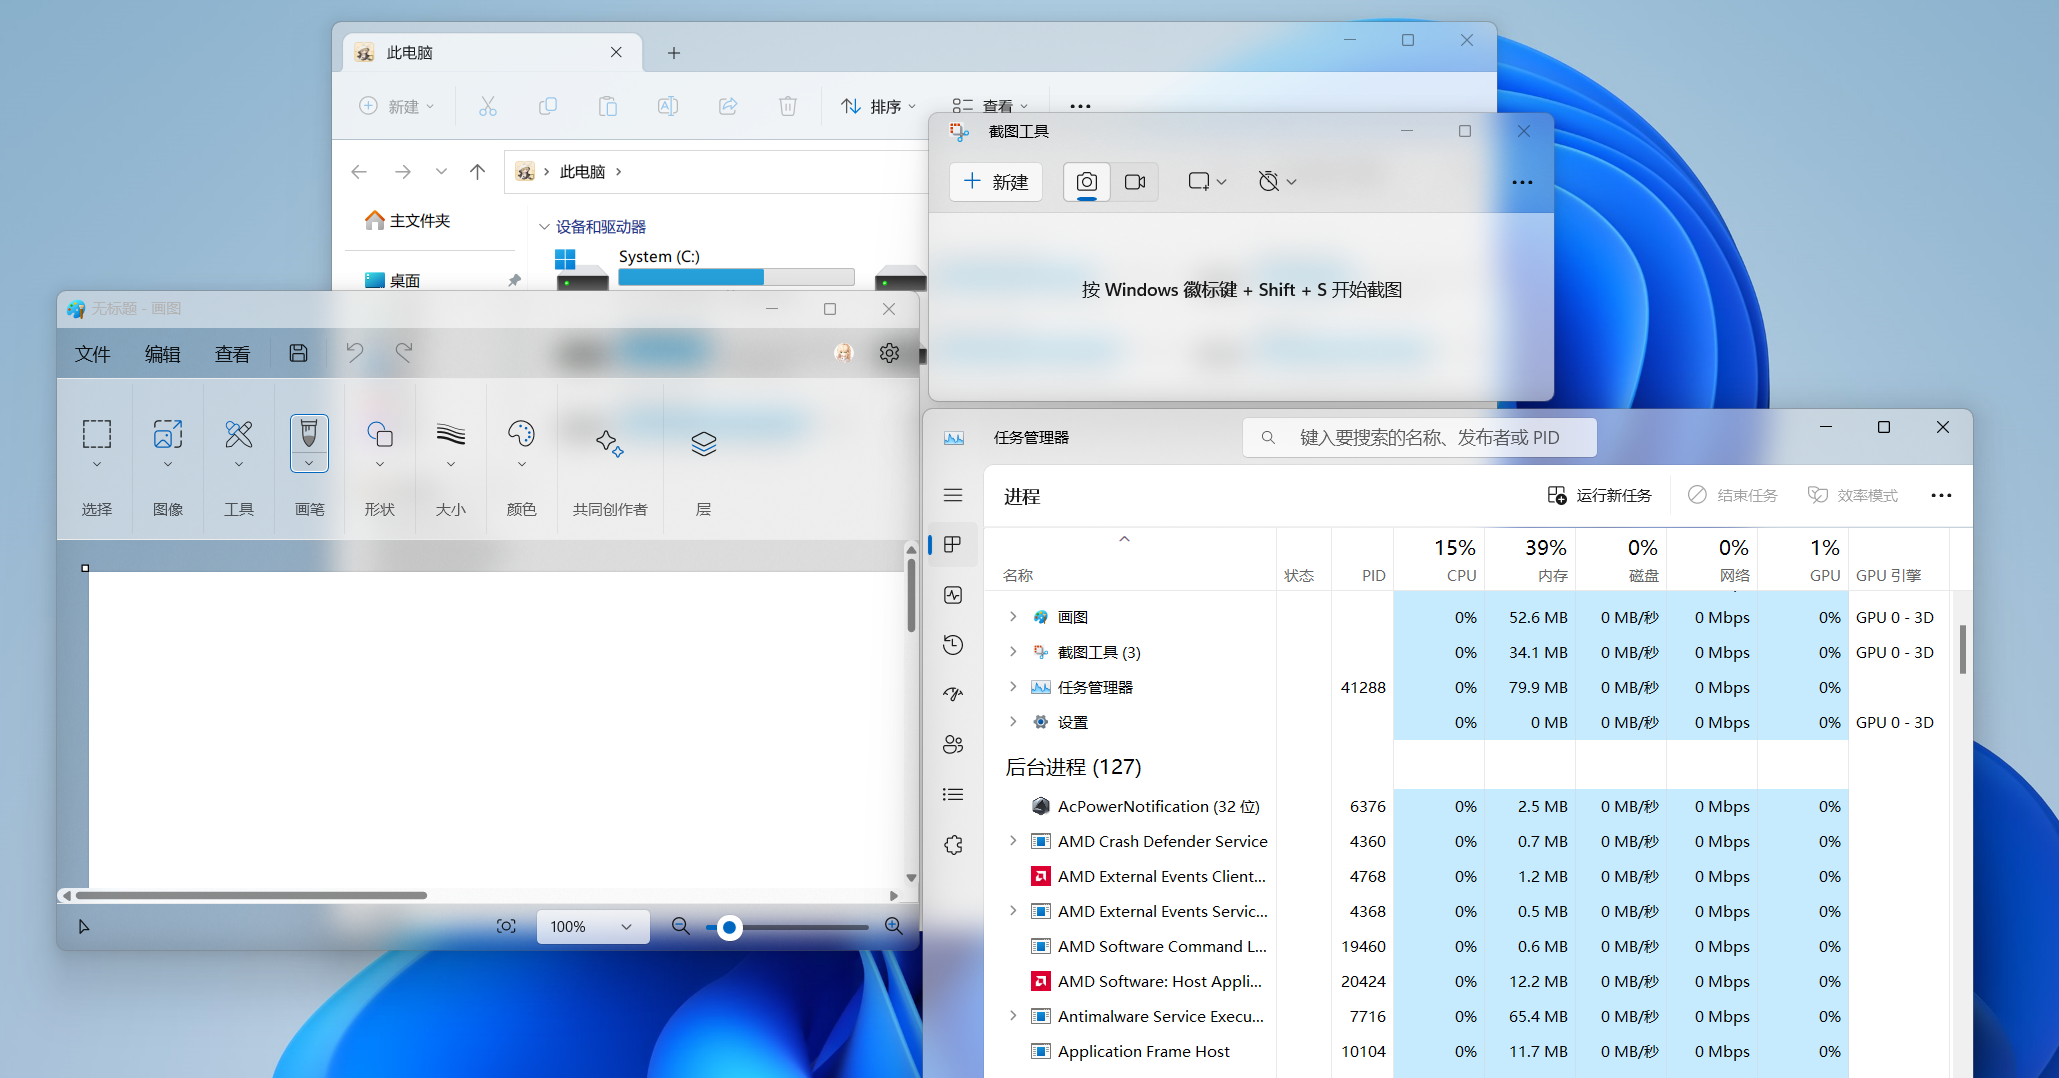
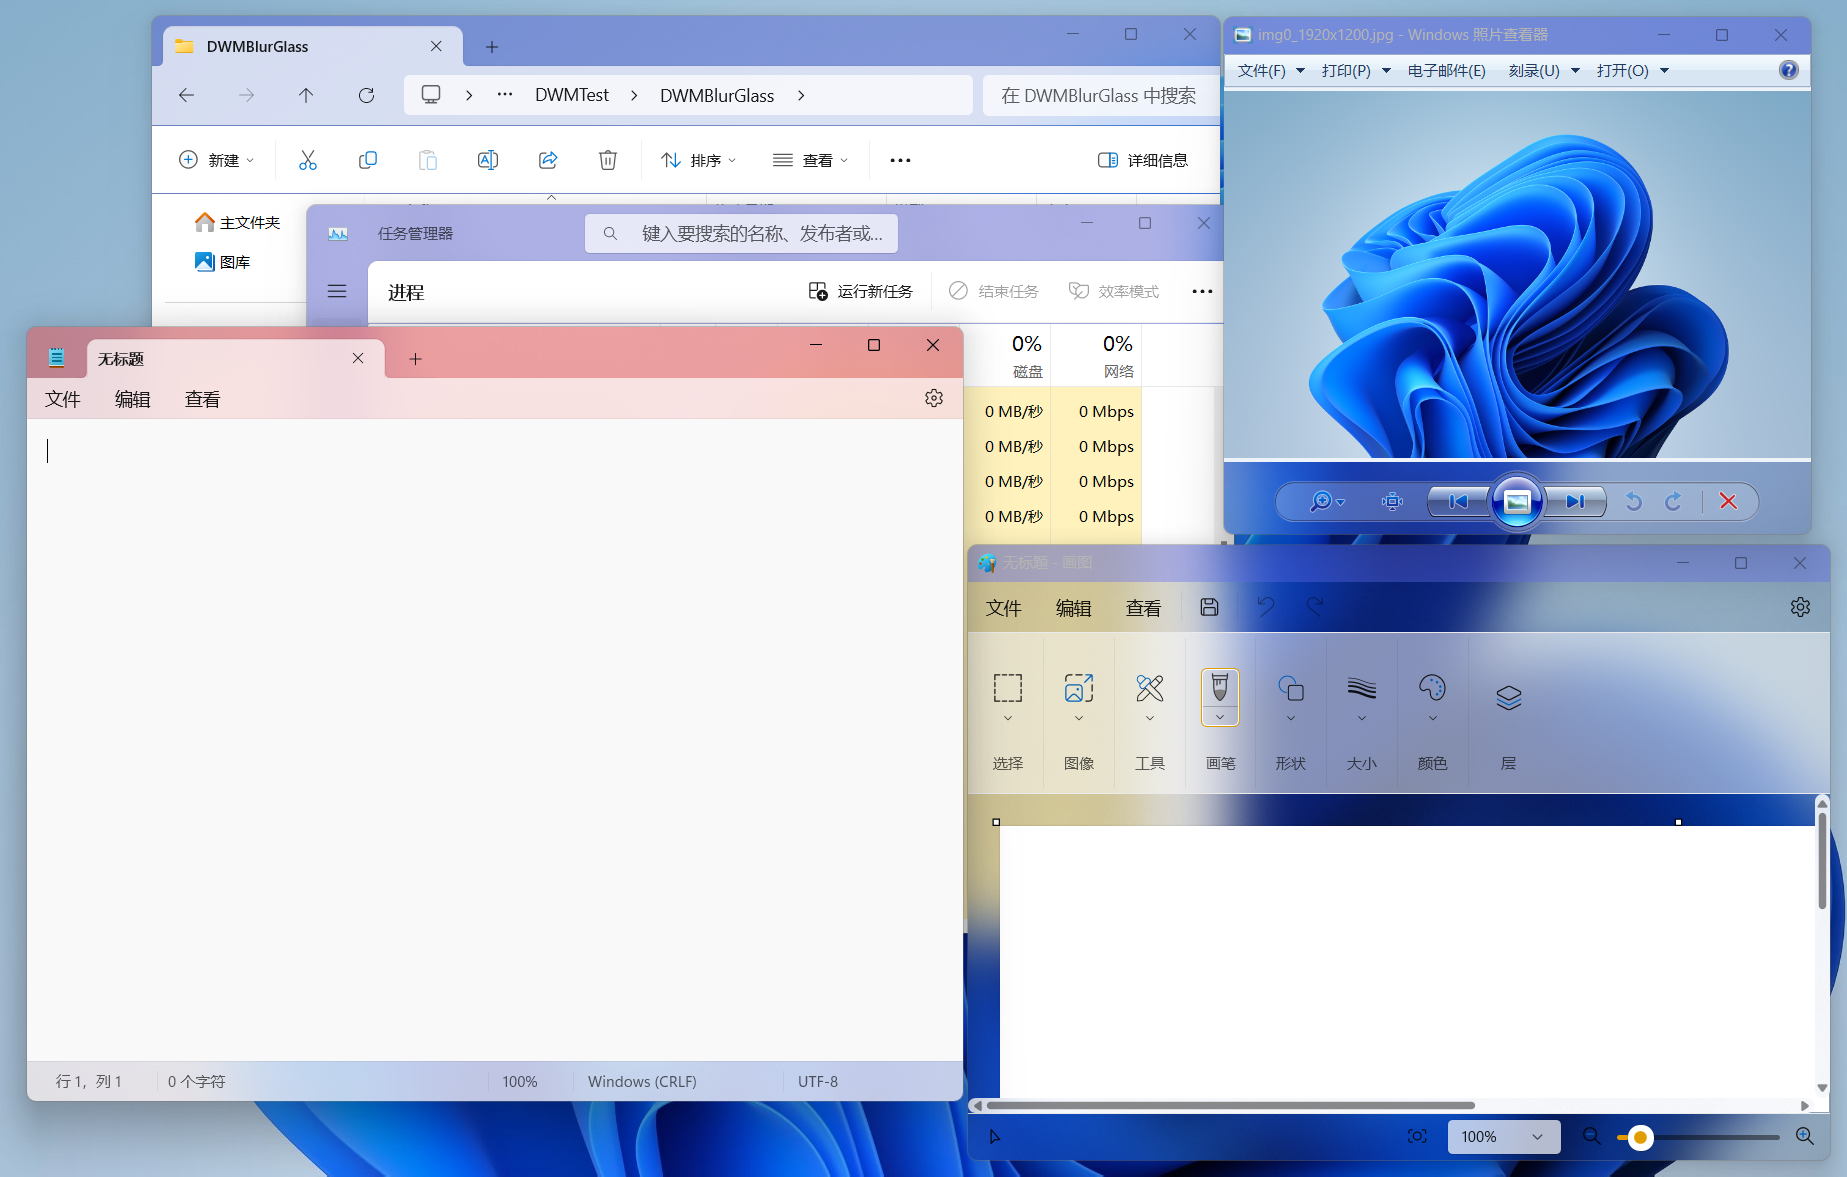
update

diff --git a/DWMBlurGlassExt/DWMBlurGlass.cpp b/DWMBlurGlassExt/DWMBlurGlass.cpp
@@ -1006,10 +1006,15 @@ namespace MDWMBlurGlassExt
 	{
 		auto ret = g_funCGlassColorizationParameters_AdjustWindowColorization_Win11.call_org(a1, a2, a3, a4);
 		if (a4 == Color_TitleBackground_Active_SWCA || a4 == Color_TitleBackground_Inactive_SWCA
-			|| a4 == Color_TitleBackground_Active || a4 == Color_TitleBackground_Inactive)
+			|| a4 == Color_TitleBackground_Active || a4 == Color_TitleBackground_Inactive
+			|| a4 == Color_TitleBackground_ActiveBackDrop || a4 == Color_TitleBackground_InactiveBackDrop)
 		{
-			auto color = (a4 == Color_TitleBackground_Inactive_SWCA || a4 == Color_TitleBackground_Inactive) ? g_configData.inactiveBlendColor
-				: g_configData.activeBlendColor;
+			auto color = (
+				a4 == Color_TitleBackground_Inactive_SWCA 
+				|| a4 == Color_TitleBackground_Inactive
+				|| a4 == Color_TitleBackground_InactiveBackDrop
+				)
+			? g_configData.inactiveBlendColor : g_configData.activeBlendColor;
 
 			a1->a = (color >> 24) & 0xff;
 			a1->r = GetRValue(color);

diff --git a/DWMBlurGlassExt/HookDef.h b/DWMBlurGlassExt/HookDef.h
@@ -110,6 +110,8 @@ namespace MDWMBlurGlassExt
 		Color_TitleBackground_Inactive_SWCA,
 		Color_TitleBackground_Active = 13,
 		Color_TitleBackground_Inactive,
+		Color_TitleBackground_ActiveBackDrop = 269,
+		Color_TitleBackground_InactiveBackDrop,
 	};
 
 	DWORD64 WINAPI CSolidColorLegacyMilBrushProxy_Update(

diff --git a/README.md b/README.md
@@ -25,6 +25,7 @@ This project uses [LGNU V3 license](/COPYING.LESSER).
 Please note that the blur radius will affect the global, which also includes locations such as the start menu, notification center, etc...
 
 ![image](/Screenshot/001911.png)
+![image](/Screenshot/10307.png)
 
 ## Compatibility
 Supported as low as **Windows 10 2004** and as high as the **latest version of Windows 11** (excluding the preview version).
@@ -60,7 +61,10 @@ Compatible with [TranslucentFlyouts](https://github.com/ALTaleX531/TranslucentFl
 Using third-party themes
 
 > Enable "Extend effects to borders (win10)"
+
 > Enable "Aero reflection effect (win10)"
+
+> Enable "Reduce title bar button height (win7 style)"
 
 ![image](/Screenshot/025454.png)
 

diff --git a/README_ZH.md b/README_ZH.md
@@ -25,6 +25,7 @@ This project uses [LGNU V3 license](/COPYING.LESSER).
 请注意 模糊强度将影响全局 例如开始菜单、通知中心等位置...
 
 ![image](/Screenshot/001701.png)
+![image](/Screenshot/78930.png)
 
 ## 兼容性
 最低支持 **Windows 10 2004** 最高支持到 **Windows 11 最新版**(不包括预览版)
@@ -60,7 +61,10 @@ This project uses [LGNU V3 license](/COPYING.LESSER).
 使用第三方主题
 
 > 启用 "扩展效果到边框 (win10)"
+
 > 启用 "Aero反光效果 (win10)"
+
+> 启用 "减少标题栏按钮高度 (win7样式)"
 
 ![image](/Screenshot/025410.png)
 
